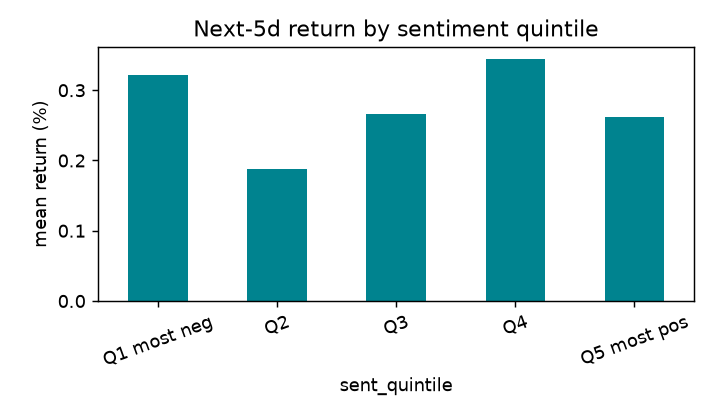
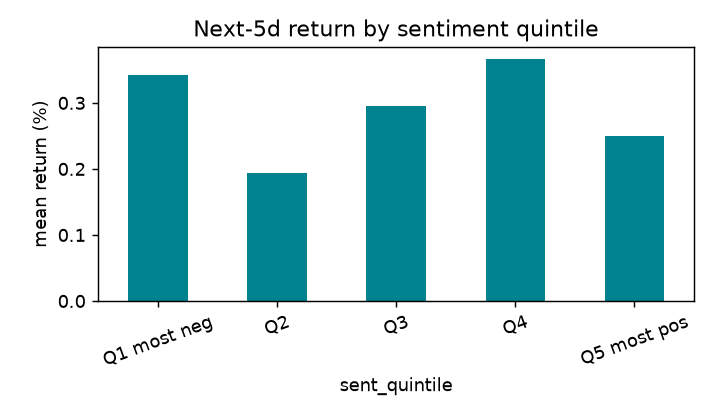
Refresh week-3 EDA outputs to the live dataset; move the 5-day EDA target out of the feature table
The week-3 outputs were still generated from the 86,461-headline IPR dataset,
while week-4 and week-5 were refreshed to the live August 2026 run in 44b6506.
Regenerating them puts the whole reports tree on the same 88,877-headline data.

Also removes target_fwd_5d from the feature table. features.parquet now carries
no target at all: train.py builds the 20-day target at train time from its own
HORIZON, so there is a single source of truth and no stored column whose 5-day
horizon disagrees with the 20-day modelling horizon. The 5-day forward return is
now computed inside week3_report.py, where it is actually used, and named
eda_fwd_5d to mark it as exploratory only. Verified bit-identical to the column
it replaces.

The sentiment-distribution chart now reports the real headline count rather than
a hardcoded "86k", and its title no longer clips.

diff --git a/scripts/week3_report.py b/scripts/week3_report.py
@@ -37,21 +37,32 @@ by_t = scored.groupby("ticker").agg(
 by_t.to_csv(OUT / "sentiment_by_ticker.csv")
 
 # ---- CSV 3: EDA correlations + quintiles ----
-d = feats[(feats["date"] >= "2020-01-01") & feats["target_fwd_5d"].notna()].copy()
+# Short-horizon forward return used for exploratory analysis only. It is computed
+# here rather than stored in features.parquet so that the feature table carries no
+# target at all: the modelling target is the 20-day horizon that src/model/train.py
+# builds at train time (see its HORIZON), which keeps a single source of truth.
+EDA_HORIZON = 5
+feats = feats.sort_values(["ticker", "date"]).copy()
+feats["eda_fwd_5d"] = feats.groupby("ticker")["close"].transform(
+    lambda s: s.shift(-EDA_HORIZON) / s - 1)
+
+d = feats[(feats["date"] >= "2020-01-01") & feats["eda_fwd_5d"].notna()].copy()
 fcols = ["sent_mean", "sent_mean_3d", "sent_mean_7d", "sent_vol", "sent_pos_ratio",
          "mom_10", "mom_20", "vol_20", "ma_gap_20"]
-corr = d[fcols + ["target_fwd_5d"]].corr()["target_fwd_5d"].drop("target_fwd_5d").round(4)
+corr = d[fcols + ["eda_fwd_5d"]].corr()["eda_fwd_5d"].drop("eda_fwd_5d").round(4)
 corr.rename("corr_with_fwd_5d_return").to_csv(OUT / "eda_feature_correlations.csv")
 
 d["sent_quintile"] = pd.qcut(d["sent_mean_7d"].rank(method="first"), 5,
                              labels=["Q1 most neg", "Q2", "Q3", "Q4", "Q5 most pos"])
-quint = (d.groupby("sent_quintile", observed=True)["target_fwd_5d"].mean() * 100).round(3)
+quint = (d.groupby("sent_quintile", observed=True)["eda_fwd_5d"].mean() * 100).round(3)
 quint.rename("mean_next5d_return_pct").to_csv(OUT / "eda_sentiment_quintiles.csv")
 
 # ---- Charts ----
-plt.figure(figsize=(5, 3.2))
+plt.figure(figsize=(6, 3.4))
 scored["sent_label"].value_counts().reindex(["positive", "neutral", "negative"]).plot.bar(color=["#2e7d32", "#9e9e9e", "#c62828"])
-plt.title("FinBERT sentiment label distribution (86k headlines)"); plt.ylabel("headlines"); plt.tight_layout()
+plt.title(f"FinBERT sentiment label distribution ({len(scored):,} headlines)", fontsize=10)
+plt.ylabel("headlines"); plt.xlabel("")
+plt.xticks(rotation=0); plt.tight_layout()
 plt.savefig(OUT / "sentiment_label_distribution.png", dpi=130); plt.close()
 
 plt.figure(figsize=(6, 3.6))

diff --git a/src/features/build_features.py b/src/features/build_features.py
@@ -1,4 +1,4 @@
-"""Build the modelling table: technical indicators + daily sentiment features + target.
+"""Build the modelling table: technical indicators + daily sentiment features.
 
 Combines:
   - data/raw/prices.parquet                  (OHLCV per ticker)
@@ -7,10 +7,11 @@ into data/processed/features.parquet, one row per (ticker, trading day):
 
   Technical:  ret_1d, ma_gap_5, ma_gap_20, vol_20, mom_10, mom_20
   Sentiment:  sent_mean, sent_vol, sent_disp, sent_pos_ratio (+ 3d/7d rolling)
-  Target:     target_fwd_5d  (return over the next 5 trading days)
 
-Features are as-of the close of each trading day; the target is strictly forward
-(starts the next day), so there is no look-ahead leakage in the features.
+Features are as-of the close of each trading day, so there is no look-ahead
+leakage. The forecast target is deliberately NOT stored here: src/model/train.py
+builds it at train time from the single shared HORIZON, so the model explained by
+SHAP is exactly the model that generates the trading signals.
 
 Run:
     .venv/Scripts/python.exe -m src.features.build_features
@@ -26,8 +27,6 @@ ROOT = Path(__file__).resolve().parents[2]
 sys.path.append(str(ROOT))
 from config import RAW_DIR, PROCESSED_DIR
 
-FWD_HORIZON = 5  # trading days for the forward-return target
-
 
 def technical_features(g: pd.DataFrame) -> pd.DataFrame:
     g = g.sort_values("date").copy()
@@ -38,8 +37,6 @@ def technical_features(g: pd.DataFrame) -> pd.DataFrame:
     g["vol_20"] = g["ret_1d"].rolling(20).std()
     g["mom_10"] = close / close.shift(10) - 1
     g["mom_20"] = close / close.shift(20) - 1
-    # forward target (strictly future)
-    g["target_fwd_5d"] = close.shift(-FWD_HORIZON) / close - 1
     return g
 
 
@@ -90,7 +87,6 @@ def main() -> None:
     print(f"Saved {len(feats):,} rows ({feats['ticker'].nunique()} tickers) -> {out_path}")
     print(f"date span: {feats['date'].min().date()} -> {feats['date'].max().date()}")
     print(f"feature columns: {feat_cols}")
-    print(f"rows with a usable target: {feats['target_fwd_5d'].notna().sum():,}")
     print(f"days with news coverage: {(feats['sent_vol'] > 0).mean():.1%} of ticker-days")
 
 
